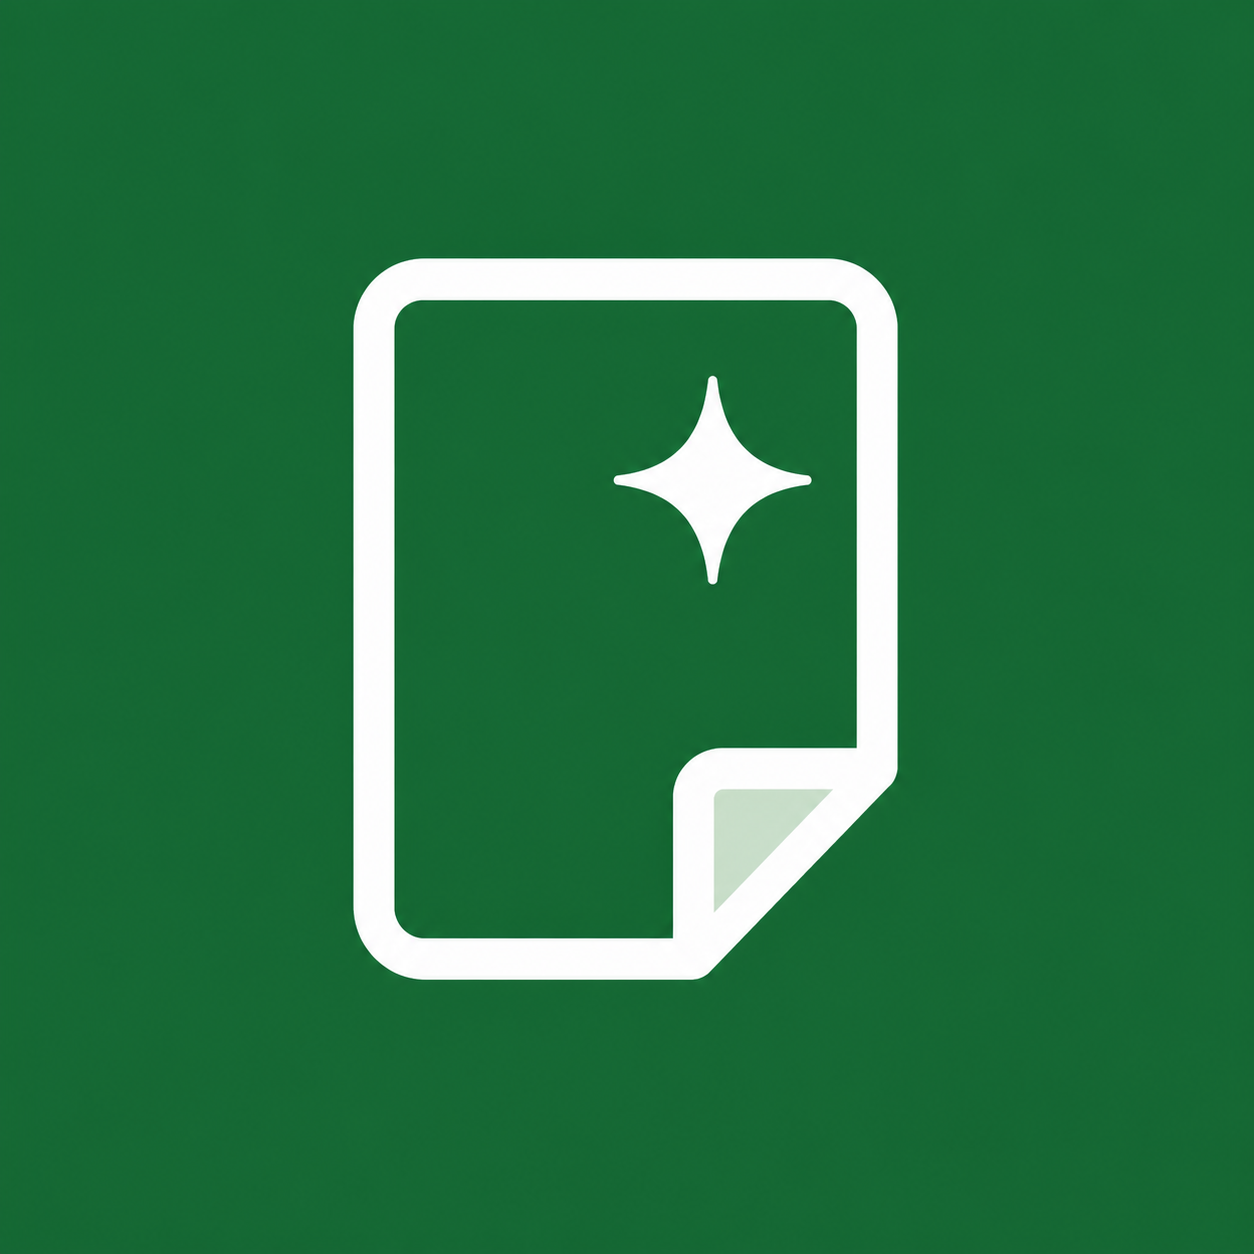
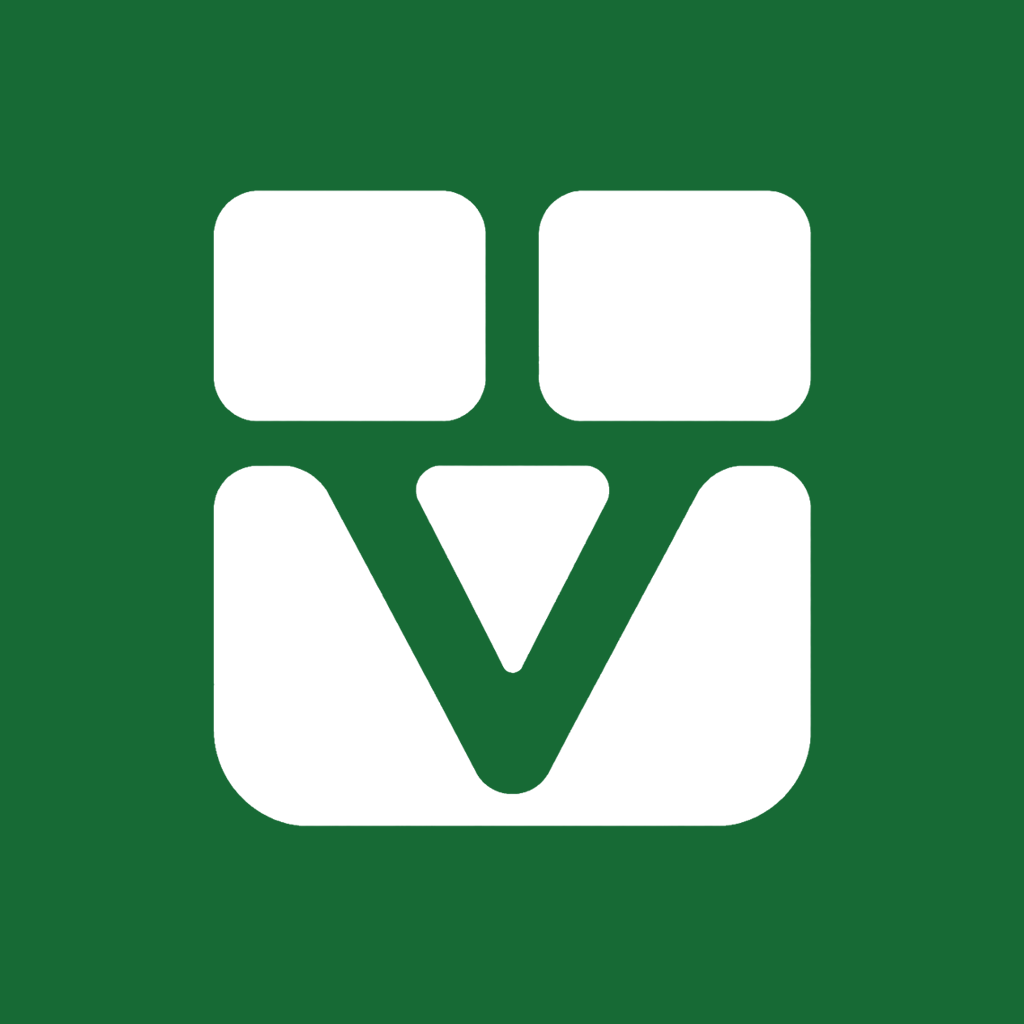
feat: adopt final Vorrio brand mark

Changed region(s): [[0.1875, 0.1875, 0.8125, 0.8125]]

diff --git a/frontend/src/App.tsx b/frontend/src/App.tsx
@@ -625,7 +625,7 @@ function HomeScreen({
     <div className="screen home-screen">
       <header className="brand-header">
         <div className="brand-lockup">
-          <ReceiptText aria-hidden="true" />
+          <img className="brand-mark" src="/brand/vorrio-mark.png" alt="" aria-hidden="true" />
           <strong>Vorrio</strong>
         </div>
         <div className={`connection-state ${connected ? 'connected' : 'disconnected'}`}>
@@ -2125,7 +2125,7 @@ function visibleNavigation(role: AuthenticatedUser['role']) {
 function DesktopNav({ selected, onSelect, status, role }: { selected: Screen; onSelect: (screen: Screen) => void; status: AppStatus | null; role: AuthenticatedUser['role'] }) {
   return (
     <aside className="desktop-nav">
-      <button className="desktop-brand" onClick={() => onSelect('home')}><ReceiptText /><strong>Vorrio</strong></button>
+      <button className="desktop-brand" onClick={() => onSelect('home')}><img className="brand-mark" src="/brand/vorrio-mark.png" alt="" aria-hidden="true" /><strong>Vorrio</strong></button>
       <nav aria-label="Hauptnavigation">
         {visibleNavigation(role).map(({ id, label, icon: Icon }) => (
           <button key={id} className={selected === id ? 'selected' : ''} onClick={() => onSelect(id)}><Icon /><span>{label}</span></button>
@@ -2169,7 +2169,7 @@ function OnboardingGuide({
   return <div className="experience-backdrop" role="presentation">
     <section className="experience-dialog onboarding-dialog" role="dialog" aria-modal="true" aria-labelledby="onboarding-title">
       <header className="experience-header">
-        <span className="experience-brand"><ReceiptText /><strong>Vorrio</strong></span>
+        <span className="experience-brand"><img className="brand-mark" src="/brand/vorrio-mark.png" alt="" aria-hidden="true" /><strong>Vorrio</strong></span>
         <span className="experience-step">Schritt {step + 1} von 3</span>
         <button type="button" className="icon-button" onClick={onDismiss} aria-label="Einführung später fortsetzen"><X /></button>
       </header>

diff --git a/frontend/src/styles.css b/frontend/src/styles.css
@@ -139,12 +139,11 @@ select:focus-visible {
   color: var(--ink);
 }
 
-.brand-lockup svg {
+.brand-lockup .brand-mark {
   width: 34px;
   height: 34px;
   flex: 0 0 auto;
-  color: var(--green);
-  stroke-width: 1.8;
+  object-fit: contain;
 }
 
 .brand-lockup strong {
@@ -1450,10 +1449,10 @@ select:focus-visible {
     cursor: pointer;
   }
 
-  .desktop-brand svg {
+  .desktop-brand .brand-mark {
     width: 29px;
     height: 29px;
-    stroke-width: 1.8;
+    object-fit: contain;
   }
 
   .desktop-nav nav {
@@ -5278,10 +5277,10 @@ select:focus-visible {
   gap: 8px;
 }
 
-.experience-brand svg {
+.experience-brand .brand-mark {
   width: 20px;
   height: 20px;
-  color: var(--green);
+  object-fit: contain;
 }
 
 .experience-step {

diff --git a/frontend/index.html b/frontend/index.html
@@ -10,8 +10,8 @@
     <meta name="apple-mobile-web-app-title" content="Vorrio" />
     <meta name="apple-mobile-web-app-status-bar-style" content="default" />
     <meta name="format-detection" content="telephone=no" />
-    <link rel="icon" href="/pwa-icon.png" />
-    <link rel="apple-touch-icon" href="/pwa-icon.png" />
+    <link rel="icon" type="image/png" sizes="1024x1024" href="/pwa-icon.png" />
+    <link rel="apple-touch-icon" sizes="1024x1024" href="/pwa-icon.png" />
     <title>Vorrio</title>
   </head>
   <body>

diff --git a/frontend/vite.config.ts b/frontend/vite.config.ts
@@ -29,7 +29,11 @@ export default defineConfig({
       },
       workbox: {
         navigateFallback: '/index.html',
-        globPatterns: ['**/*.{js,css,html,svg,woff2}', 'assets/**/*.{png,jpg,jpeg,webp}'],
+        globPatterns: [
+          '**/*.{js,css,html,svg,woff2}',
+          'assets/**/*.{png,jpg,jpeg,webp}',
+          'brand/**/*.{png,jpg,jpeg,webp}',
+        ],
         importScripts: ['/push-worker.js'],
       },
     }),

diff --git a/scripts/check_pwa_contract.py b/scripts/check_pwa_contract.py
@@ -26,6 +26,8 @@ def main() -> None:
         ("frontend/index.html", 'name="mobile-web-app-capable" content="yes"', "mobile install metadata"),
         ("frontend/index.html", 'name="apple-mobile-web-app-capable" content="yes"', "iOS install metadata"),
         ("frontend/index.html", 'name="apple-mobile-web-app-title" content="Vorrio"', "iOS app title"),
+        ("frontend/index.html", 'rel="icon" type="image/png" sizes="1024x1024" href="/pwa-icon.png"', "browser favicon"),
+        ("frontend/index.html", 'rel="apple-touch-icon" sizes="1024x1024" href="/pwa-icon.png"', "iOS home-screen icon"),
         ("frontend/vite.config.ts", "id: '/'", "stable manifest identity"),
         ("frontend/vite.config.ts", "display: 'standalone'", "standalone display mode"),
         ("frontend/vite.config.ts", "scope: '/'", "manifest scope"),
@@ -34,6 +36,7 @@ def main() -> None:
         ("frontend/src/main.tsx", "registerSW({ immediate: true })", "service-worker registration"),
         ("frontend/public/push-worker.js", "self.addEventListener('push'", "visible Web Push handler"),
         ("frontend/public/push-worker.js", "self.addEventListener('notificationclick'", "notification click handler"),
+        ("frontend/src/App.tsx", 'src="/brand/vorrio-mark.png"', "visible product brand mark"),
         ("frontend/src/styles.css", "min-height: 100dvh", "dynamic mobile viewport"),
         ("frontend/src/styles.css", "env(safe-area-inset-bottom", "safe-area navigation padding"),
         ("frontend/src/styles.css", "overflow-x: clip", "horizontal overflow guard"),
@@ -51,11 +54,25 @@ def main() -> None:
     if width != height or width < 512:
         raise SystemExit("PWA check failed: install icon must be square and at least 512px")
 
+    for asset in ("vorrio-mark.png", "vorrio-mark-white.png"):
+        mark_width, mark_height = png_size(ROOT / "frontend/public/brand" / asset)
+        if mark_width != mark_height or mark_width < 512:
+            raise SystemExit(
+                f"PWA check failed: brand/{asset} must be square and at least 512px"
+            )
+
     service_worker = ROOT / "frontend/dist/sw.js"
     if not service_worker.exists():
         raise SystemExit("PWA check failed: production service worker was not built")
     service_worker_content = service_worker.read_text(encoding="utf-8")
-    for asset in ("index.html", "pwa-icon.png", "push-worker.js", "assets/receipt-folded.png"):
+    for asset in (
+        "index.html",
+        "pwa-icon.png",
+        "push-worker.js",
+        "assets/receipt-folded.png",
+        "brand/vorrio-mark.png",
+        "brand/vorrio-mark-white.png",
+    ):
         if service_worker_content.count(f'url:"{asset}"') != 1:
             raise SystemExit(f"PWA check failed: {asset} must occur exactly once in the precache")
 

diff --git a/docs/design/brand/README.md b/docs/design/brand/README.md
@@ -1,0 +1,27 @@
+# Vorrio brand mark
+
+The selected Vorrio mark combines three organized inventory modules with a
+negative-space `V`. It replaces the earlier receipt-sheet symbol throughout the
+PWA and public website.
+
+## Production assets
+
+- `frontend/public/brand/vorrio-mark.png`: transparent green mark for light
+  surfaces;
+- `frontend/public/brand/vorrio-mark-white.png`: transparent white mark for dark
+  surfaces;
+- `frontend/public/pwa-icon.png`: maskable 1024 px app icon with safe padding;
+- `vorrio-logo-final.png`: approved presentation board for the selected mark;
+- `vorrio-mark-chroma-source.png`: construction source retained for future
+  re-extraction, not for product use.
+
+## Usage
+
+- Primary green: `#176B35`.
+- Dark green: `#10592B`.
+- Keep clear space around the symbol equal to at least half the gap between its
+  two upper modules.
+- Do not rotate the mark, add effects, recolor individual modules or place text
+  inside it.
+- Use the white version on green or dark surfaces and the green version on
+  white or light surfaces.

diff --git a/CHANGELOG.md b/CHANGELOG.md
@@ -2,6 +2,10 @@
 
 ## Unreleased
 
+- Replaced the receipt-shaped product mark with the final Vorrio identity in
+  the PWA header, desktop navigation and first-run guide, including transparent
+  light/dark assets plus the new maskable app icon and browser favicon.
+
 ## 0.8.21 – 2026-08-12
 
 - Made `make check` install locked frontend dependencies with `npm ci`, so CI
